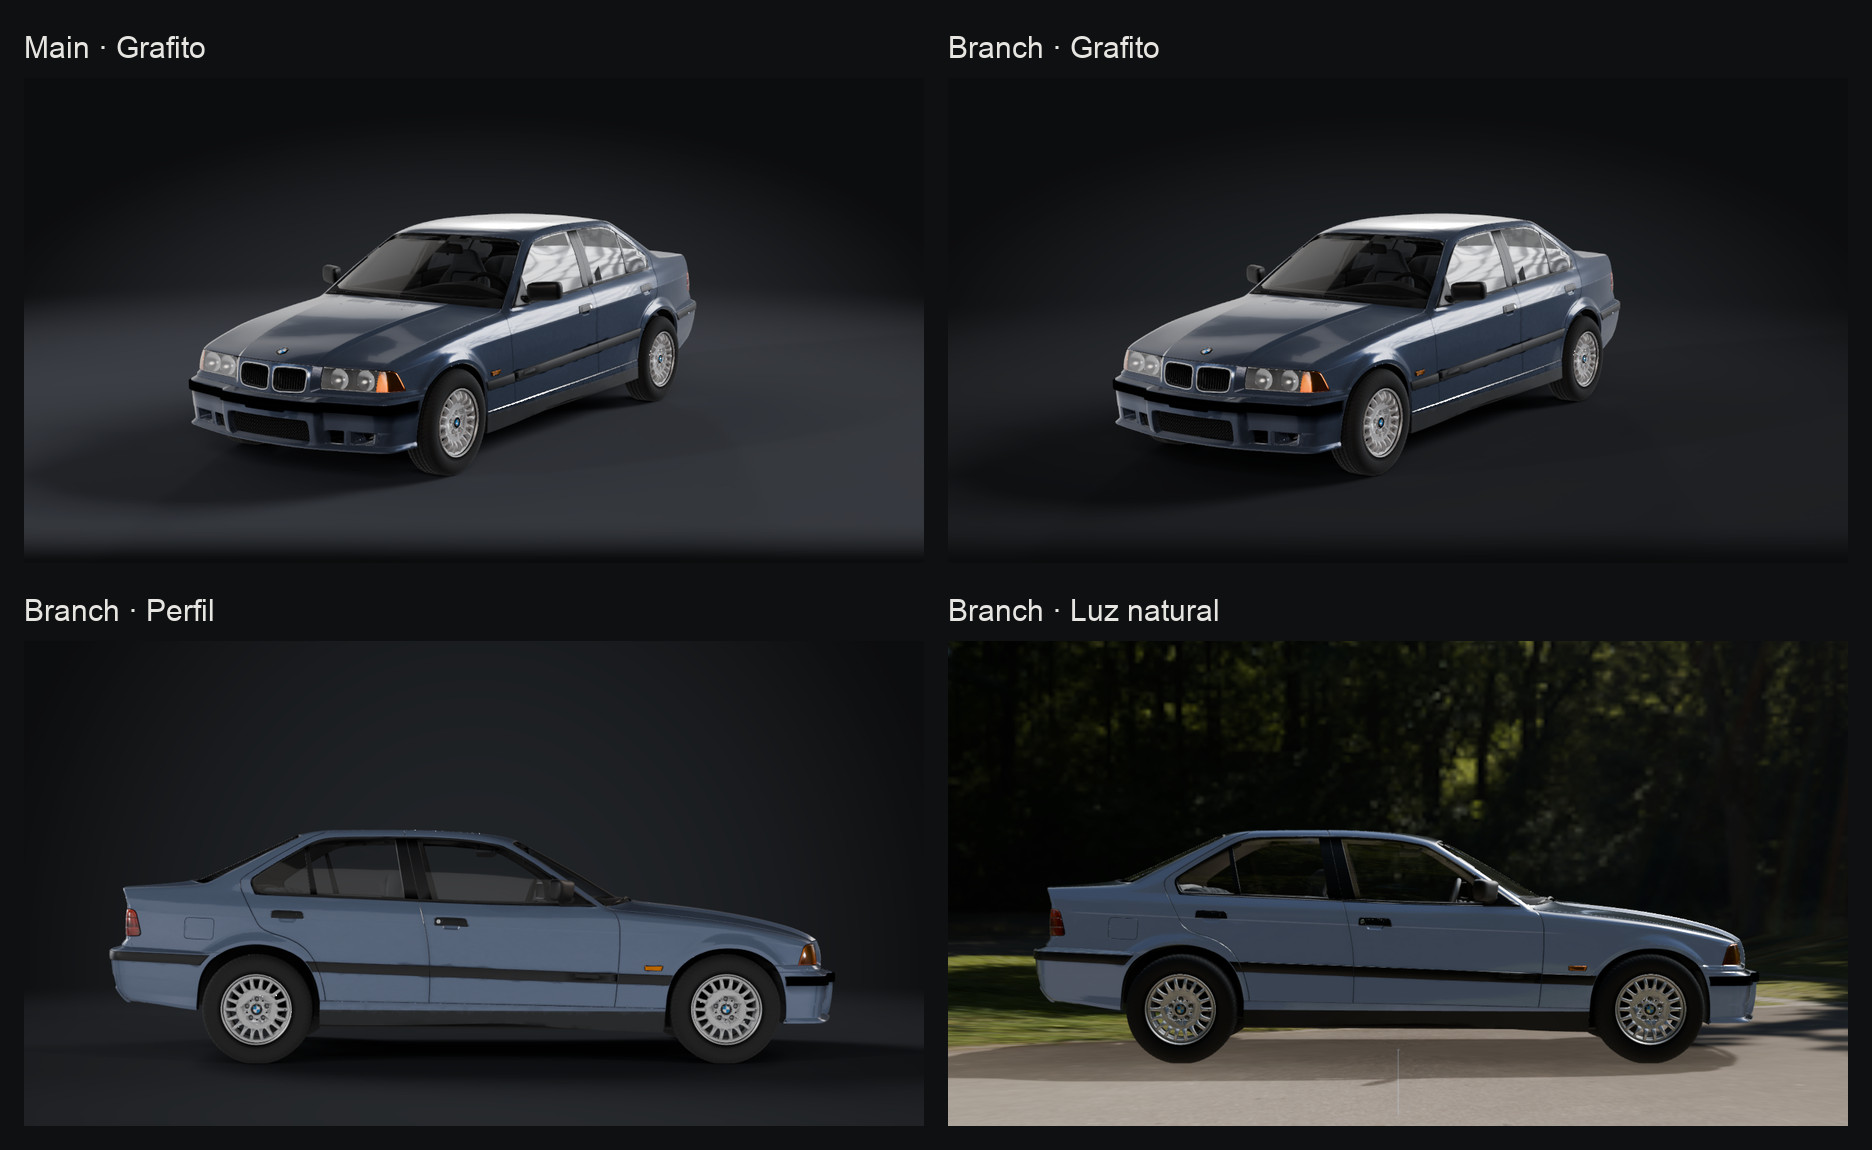
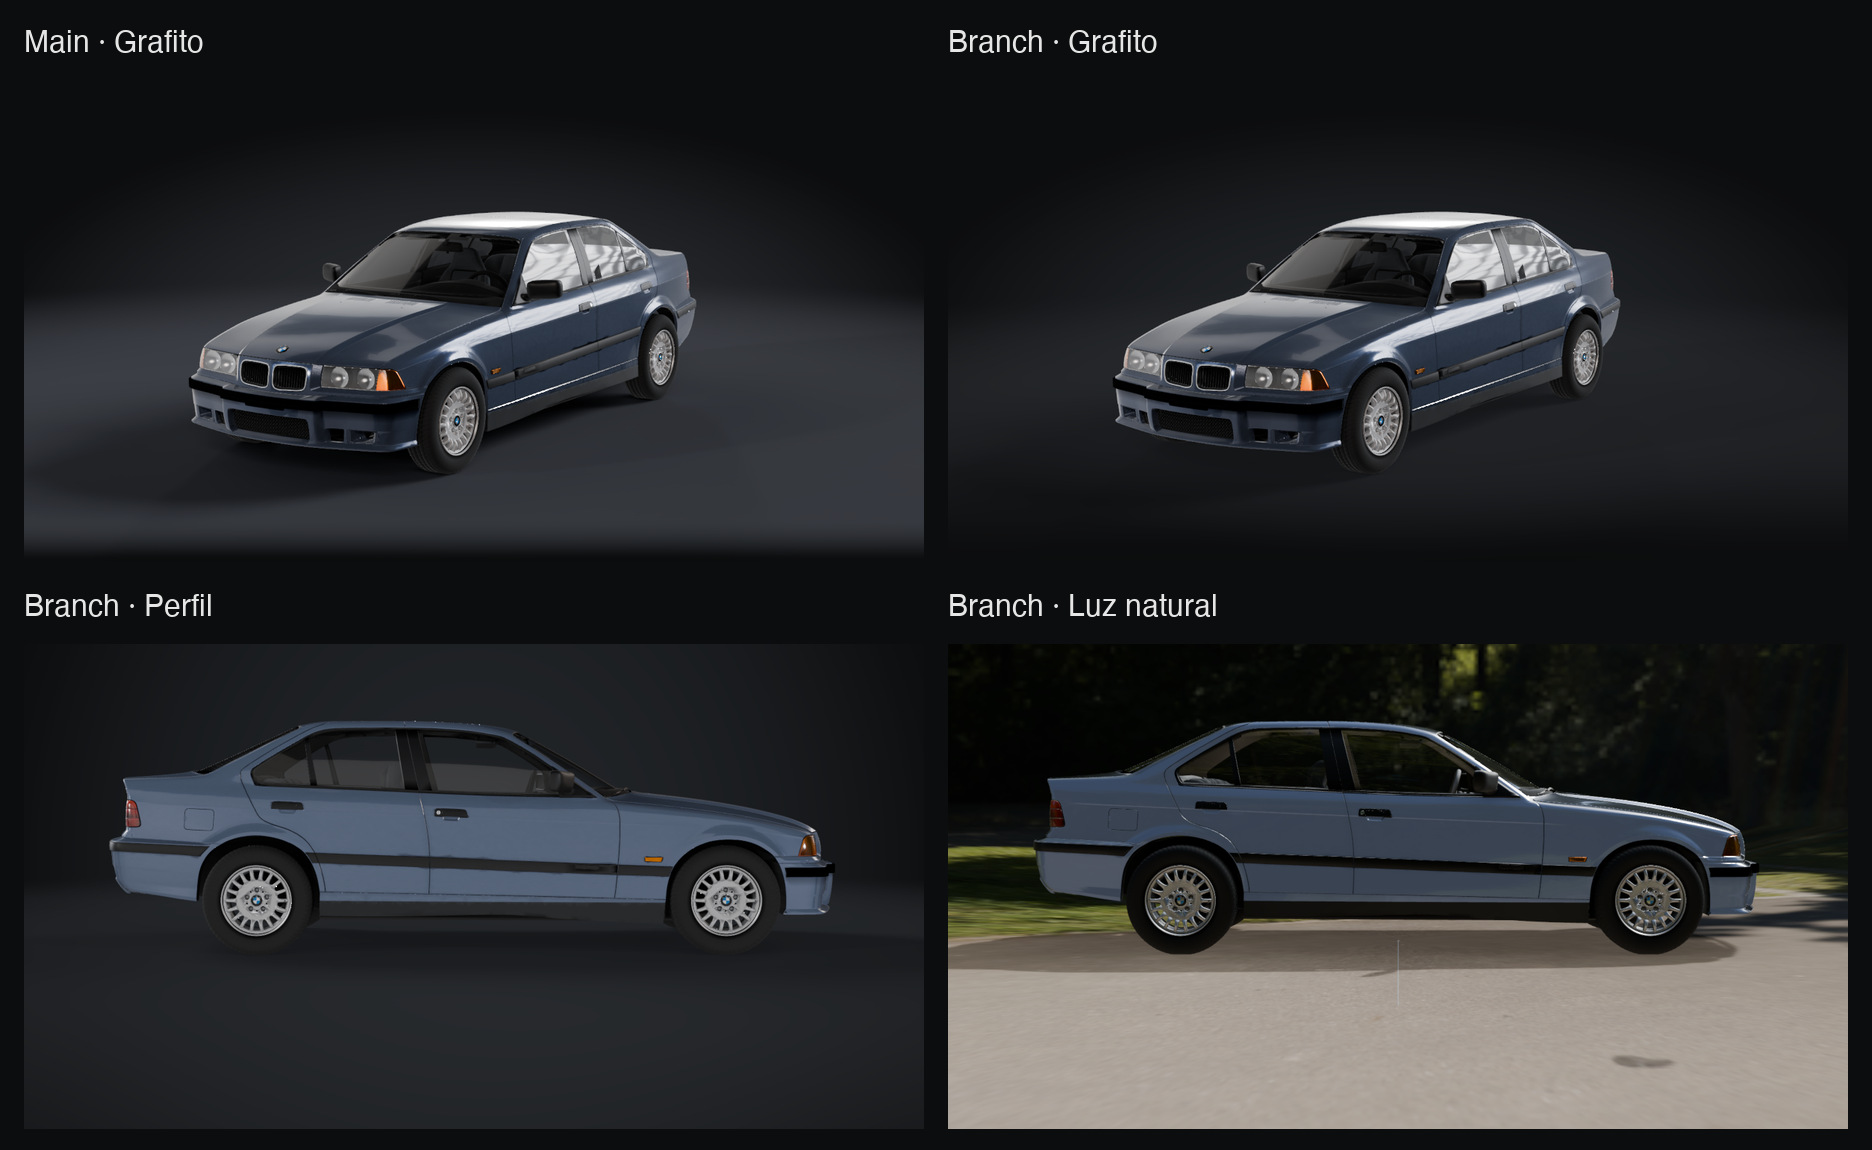
Soften Grafito floor and shadow transition

diff --git a/ios/E36OBD/VehicleSceneView.swift b/ios/E36OBD/VehicleSceneView.swift
@@ -583,7 +583,10 @@ final class VehicleSceneHost: UIView, UIGestureRecognizerDelegate {
         if let shadedVehicle { updateDiffuse(shadedVehicle) }
         if var component = shadowGround?.model, var material = component.materials.first as? UnlitMaterial {
             material.color.texture = .init(selected == .graphite && !baseline ? assets.softboxShadow : assets.contactShadow)
-            material.blending = .transparent(opacity: .init(scale: selected == .graphite ? 1 : 0.65))
+            // The wide softbox shadow compresses into a band in the low profile
+            // view; keep enough contact under the tires without a dark seam.
+            let shadowStrength: Float = selected == .graphite && !baseline ? 0.5 : selected == .graphite ? 1 : 0.65
+            material.blending = .transparent(opacity: .init(scale: shadowStrength))
             let extent: Float = selected == .graphite && !baseline ? 20 : 8
             component.mesh = .generatePlane(width: extent, depth: extent)
             component.materials = [material]

diff --git a/ios/Design/Vehicle/LightingReview/README.md b/ios/Design/Vehicle/LightingReview/README.md
@@ -12,4 +12,6 @@ The same iPhone 17 Pro simulator on iOS 27.0 rendered `main` at `e7fd594` and th
 
 The original Grafito floor was a broad grey patch below the car. Its matte albedo, opacity and world-space spread are reduced, with a quieter backdrop sweep. A restrained, world-fixed white-card bounce lifts the E36's -X flank in the right-facing profile; the front three-quarter angle keeps its original highlight structure. Luz natural retains the parking HDR projection. The vehicle receives 0.35 stop more environment light, the visible projection 0.35 stop less, and the directional contact shadow is reduced to 65% opacity.
 
+The Grafito floor now fades over a wider lower portion of the viewport, reaching the surrounding `#0c0d0e` background before the car bay ends. The softbox shadow is at 50% opacity so its shallow-angle projection does not read as a hard band in Perfil. The car itself stays opaque. The refreshed Grafito screenshots and comparison sheet show the final transition; a fresh Luz natural capture was pixel-identical to the previous one.
+
 The branch's Debug-only `--vehicle-review=profile` launch argument selects the product's right-facing camera pose for repeatable lighting captures. `--scene-study=graphite` and `--scene-study=limestone` select stages. The `E36OBD` Debug scheme built successfully for iOS Simulator with Xcode 27.0; both stages loaded and rendered on the iPhone 17 Pro simulator. This review covers appearance in those views, not physical-device performance or live capture.

diff --git a/ios/VALIDATION.md b/ios/VALIDATION.md
@@ -388,3 +388,5 @@ Built the updated `E36OBD` scheme for the connected iPhone 17 Pro with Xcode 27 
 ### Lighting iteration on `codex/scene-lighting` — 29 September 2026
 
 Installed the iOS 27.0 simulator runtime on this Mac and compared `main` with the lighting branch on the same iPhone 17 Pro simulator. Both stages and the right-facing profile rendered through the app's Metal scene. Grafito now uses a restrained matte floor and backdrop sweep; a world-fixed fill makes the previously dark profile legible. Luz natural retains its photographic projection with better subject/background exposure and a gentler ground shadow. A final Debug simulator build passed with Xcode 27.0. Native screenshots and a comparison sheet are in [Design/Vehicle/LightingReview](Design/Vehicle/LightingReview/README.md). These simulator images are visual evidence; the lighting branch was not installed on the physical iPhone.
+
+The subsequent Grafito seam adjustment extends the floor's lower screen fade and halves the softbox shadow opacity. The same simulator rendered the updated dashboard and right-facing profile; the car remains fully opaque and the matte floor reaches the app's dark background before the viewport ends. The final Debug simulator build succeeded. A fresh Luz natural dashboard capture matched the earlier native screenshot pixel for pixel. Updated Grafito PNGs and the comparison sheet are in the same review directory. No physical-device install was made for this branch.
